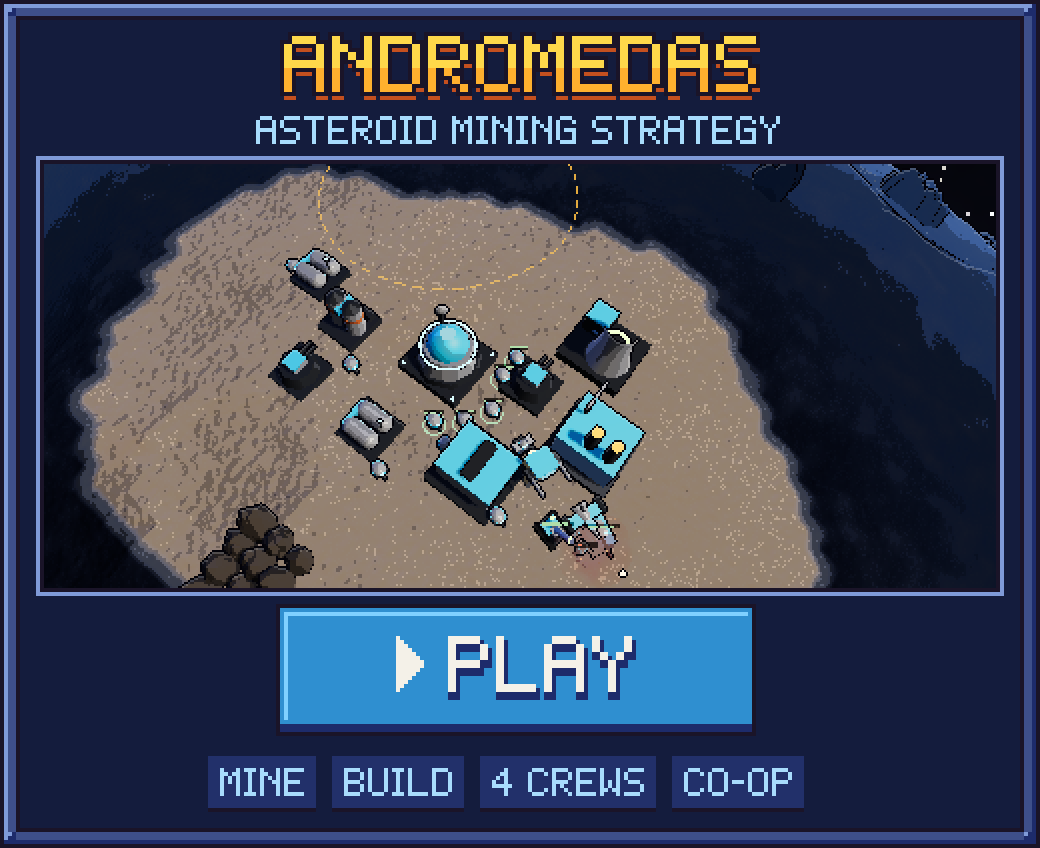
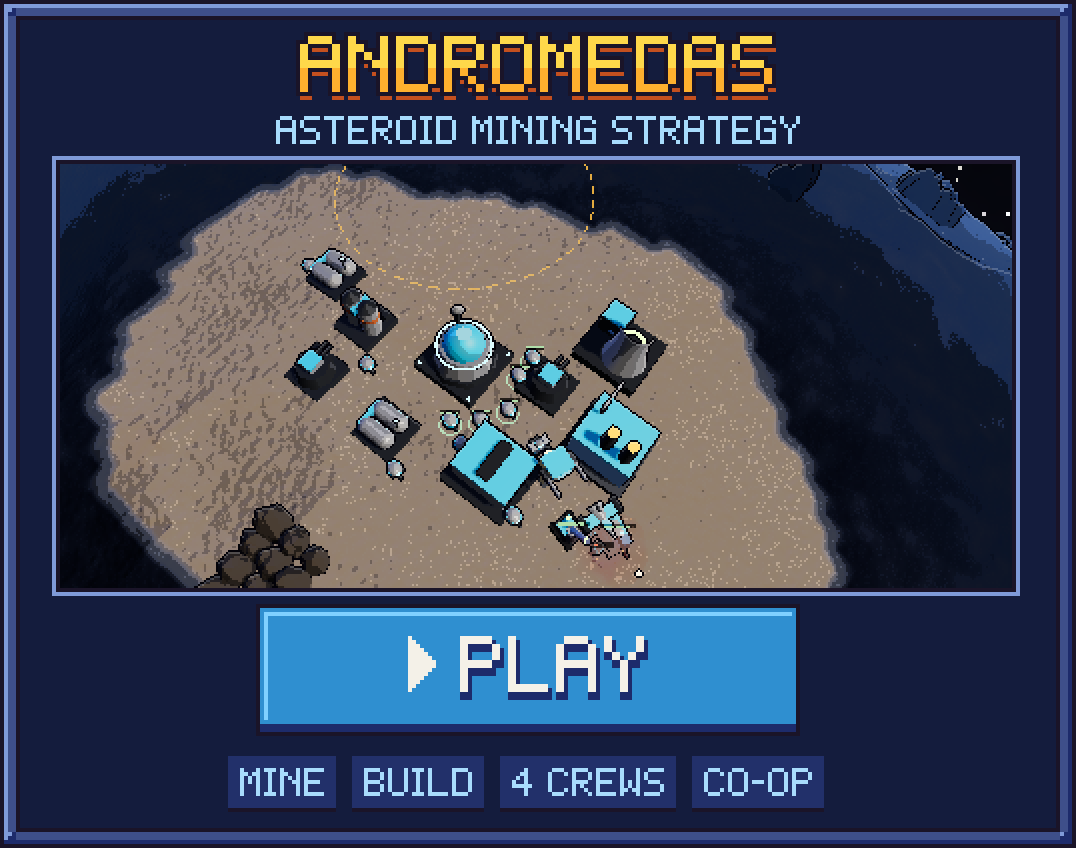
Put Crazy Weapon Man in the middle slot
Swaps Crazy Weapon Man and Andromedas in the lobby: card art widths,
play and info hotspots, and the scene label all follow.

Claude-Session: https://claude.ai/code/session_011dHSxbJSWSXGBzup3FPvBe

diff --git a/public/index.html b/public/index.html
@@ -135,10 +135,10 @@ html,body{background:#090d19}
 <svg width="0" height="0" style="position:absolute" aria-hidden="true"><defs><symbol id="goose" viewBox="0 0 16 14" shape-rendering="crispEdges"><rect x="0" y="7" width="2" height="2" fill="#d9d4e4"/><rect x="2" y="7" width="10" height="5" fill="#fff"/><rect x="3" y="11" width="8" height="1" fill="#d9d4e4"/><rect x="4" y="8" width="5" height="2" fill="#bcb6c9"/><rect x="10" y="2" width="2" height="5" fill="#fff"/><rect x="10" y="1" width="4" height="3" fill="#fff"/><rect x="12" y="2" width="1" height="1" fill="#111"/><rect x="14" y="2" width="2" height="2" fill="#ff9a3c"/><rect x="14" y="3" width="1" height="1" fill="#e2702a"/><g class="leg-a" fill="#ff9a3c"><rect x="5" y="12" width="1" height="2"/><rect x="5" y="13" width="2" height="1"/></g><g class="leg-b" fill="#ff9a3c"><rect x="8" y="12" width="1" height="2"/><rect x="8" y="13" width="2" height="1"/></g></symbol></defs></svg>
 <button id="honk-counter" type="button" aria-label="Honk the goose. Every honk releases another goose."><svg aria-hidden="true"><use href="#goose"/></svg><span><span id="honk-count">0</span> HONKS</span></button>
 <button id="sound-toggle" type="button" aria-pressed="false" aria-label="Enable interactive sound effects">♫ SOUND OFF</button>
-<main id="viewport" aria-label="NoobScrub Games pixel-art arcade. Swipe horizontally to explore."><section id="world" aria-label="Pixel-art game studio lobby, with Siege of Legends, Andromedas, Crazy Weapon Man and Otis the dog">
+<main id="viewport" aria-label="NoobScrub Games pixel-art arcade. Swipe horizontally to explore."><section id="world" aria-label="Pixel-art game studio lobby, with Siege of Legends, Crazy Weapon Man, Andromedas and Otis the dog">
 <button class="hotspot hit-logo" aria-label="About NoobScrub Games" data-open="story"></button>
-<button class="hotspot hit-siege" aria-label="Play Siege of Legends" data-open="play-siege"></button><button class="hotspot hit-andro" aria-label="Play Andromedas" data-open="play-andromedas"></button><button class="hotspot hit-cwm" aria-label="Play Crazy Weapon Man" data-open="play-cwm"></button><button class="hotspot hit-info1" aria-label="Learn about Siege of Legends" data-open="siege"></button><button class="hotspot hit-info2" aria-label="Learn about Andromedas" data-open="andromedas"></button><button class="hotspot hit-info3" aria-label="Learn about Crazy Weapon Man" data-open="cwm"></button><button class="hotspot hit-quiz" aria-label="Take the Noob or Scrub quiz" data-open="quiz"></button><button class="hotspot hit-patch" aria-label="Read patch notes" data-open="patch"></button><button class="hotspot hit-left" aria-label="Pan left" data-pan="-1"></button><button class="hotspot hit-right" aria-label="Pan right" data-pan="1"></button>
-<button class="card-zoom siege" data-open="siege" aria-label="Preview Siege of Legends" data-x="2.3" data-y="29" data-w="31.2" data-h="45.2"></button><button class="card-zoom andro" data-open="andromedas" aria-label="Preview Andromedas" data-x="34.5" data-y="29" data-w="31.1" data-h="45.2"></button><button class="card-zoom cwm" data-open="cwm" aria-label="Preview Crazy Weapon Man" data-x="66.3" data-y="29" data-w="32.2" data-h="45.2"></button></section></main>
+<button class="hotspot hit-siege" aria-label="Play Siege of Legends" data-open="play-siege"></button><button class="hotspot hit-andro" aria-label="Play Crazy Weapon Man" data-open="play-cwm"></button><button class="hotspot hit-cwm" aria-label="Play Andromedas" data-open="play-andromedas"></button><button class="hotspot hit-info1" aria-label="Learn about Siege of Legends" data-open="siege"></button><button class="hotspot hit-info2" aria-label="Learn about Crazy Weapon Man" data-open="cwm"></button><button class="hotspot hit-info3" aria-label="Learn about Andromedas" data-open="andromedas"></button><button class="hotspot hit-quiz" aria-label="Take the Noob or Scrub quiz" data-open="quiz"></button><button class="hotspot hit-patch" aria-label="Read patch notes" data-open="patch"></button><button class="hotspot hit-left" aria-label="Pan left" data-pan="-1"></button><button class="hotspot hit-right" aria-label="Pan right" data-pan="1"></button>
+<button class="card-zoom siege" data-open="siege" aria-label="Preview Siege of Legends" data-x="2.3" data-y="29" data-w="31.2" data-h="45.2"></button><button class="card-zoom cwm" data-open="cwm" aria-label="Preview Crazy Weapon Man" data-x="34.5" data-y="29" data-w="31.1" data-h="45.2"></button><button class="card-zoom andro" data-open="andromedas" aria-label="Preview Andromedas" data-x="66.3" data-y="29" data-w="32.2" data-h="45.2"></button></section></main>
 
 <div id="shade" role="presentation"><section id="dialog" role="dialog" aria-modal="true" aria-labelledby="dialog-title"><header><h2 id="dialog-title">THE ARCADE</h2><button id="close" aria-label="Close window">✕ CLOSE</button></header><div id="content"></div><footer><span>NOOBSCRUB GAMES • GAMES THAT DON'T SUCK • <a href="/privacy.html" style="color:inherit">PRIVACY</a></span><button id="back-to-games" hidden>← ALL GAMES</button></footer></section></div><div id="toast" role="status"></div>
 <script>

diff --git a/tools/build-cards.py b/tools/build-cards.py
@@ -148,18 +148,18 @@ CARDS = [
          title_hi='#ffe08a', title_lo='#f08a2c', title_shadow='#7a1f2b', genre_col='#f4c9a8',
          btn='#c4363e', btn_light='#f06a52', btn_dark='#7a1f2b', btn_text='#f8e08e',
          play=(.247, .79), tags=['12 CASTLES', 'CHAMPIONS', '1 GOOSE'], tag_bg='#4a2a36', tag_fg='#f8e08e'),
-    dict(name='andromedas', w=260, frame='andromedas.png', crop=(1, 92),
+    dict(name='andromedas', w=269, frame='andromedas.png', crop=(1, 92),
          title='ANDROMEDAS', genre='ASTEROID MINING STRATEGY',
          panel='#141c3d', rim='#3e4f8a', rim_light='#7f9ad8', rim_dark='#1d2b6b',
          title_hi='#ffd84a', title_lo='#ffb02e', title_shadow='#c4501f', genre_col='#a8dcfd',
          btn='#2f8fd0', btn_light='#7fd0ff', btn_dark='#1d2b6b', btn_text='#f4f1e8',
-         play=(.27, .72), tags=['MINE', 'BUILD', '4 CREWS', 'CO-OP'], tag_bg='#22306a', tag_fg='#a8dcfd'),
-    dict(name='crazy-weapon-man', w=269, frame='crazy-weapon-man.png', crop=(2, 22),
+         play=(.24, .736), tags=['MINE', 'BUILD', '4 CREWS', 'CO-OP'], tag_bg='#22306a', tag_fg='#a8dcfd'),
+    dict(name='crazy-weapon-man', w=260, frame='crazy-weapon-man.png', crop=(2, 22),
          title='CRAZY WEAPON MAN', genre='WEAPON-FUELED ACTION ROGUELIKE',
          panel='#2b2442', rim='#7a4bc2', rim_light='#c39bff', rim_dark='#22107f',
          title_hi='#ffc15a', title_lo='#f06a52', title_shadow='#22107f', genre_col='#ffb3d9',
          btn='#f08a2c', btn_light='#ffc15a', btn_dark='#c4501f', btn_text='#1a1428',
-         play=(.24, .736), tags=['ABSURD WEAPONS', 'BOSSES', 'WAR GOOSE'], tag_bg='#3e3a5c', tag_fg='#f8e08e'),
+         play=(.27, .72), tags=['ABSURD WEAPONS', 'BOSSES', 'WAR GOOSE'], tag_bg='#3e3a5c', tag_fg='#f8e08e'),
 ]
 
 if __name__ == '__main__':
